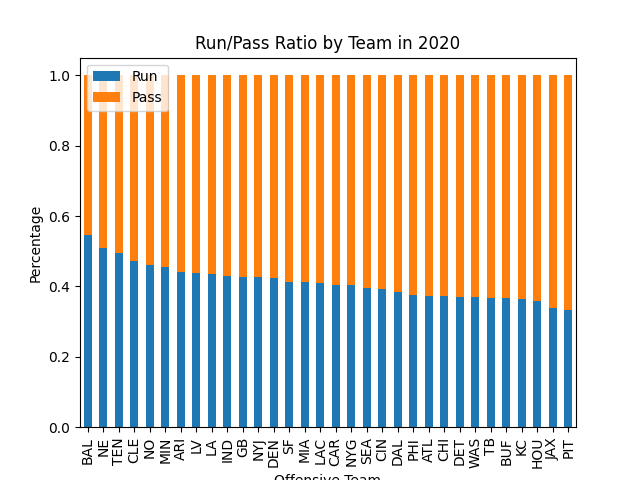
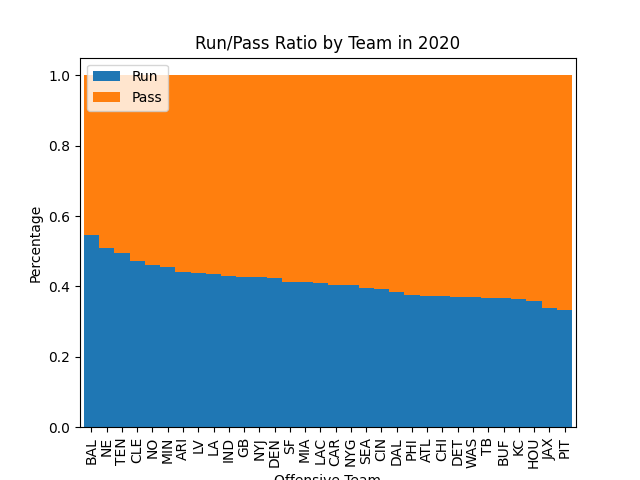
Made stacked bar chart look more like a histogram with touching bars

Changed region(s): [[0.125, 0.1562, 0.9062, 1.0]]

diff --git a/visualizations/stacked_bar_chart.py b/visualizations/stacked_bar_chart.py
@@ -30,7 +30,7 @@ def output_stacked_bar_chart():
     df = df.sort_values(by='run_ratio', ascending=False)
 
     df = df.set_index('posteam').rename(columns={'run_ratio': 'Run', 'pass_ratio': 'Pass'})
-    df.plot(kind='bar', stacked=True)
+    df.plot(kind='bar', stacked=True, width=1)
     plt.title(f'Run/Pass Ratio by Team in {SEASON}')
     plt.legend(loc='upper left')
     plt.xlabel("Offensive Team")
